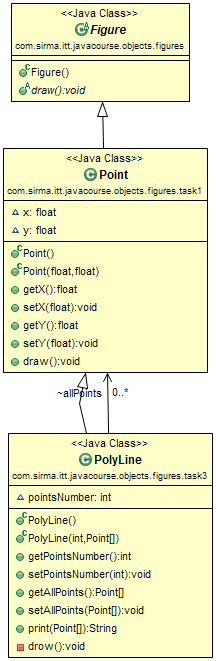
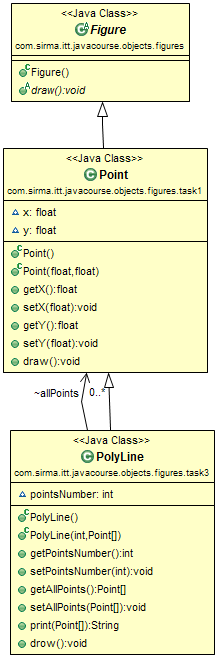
second feedback

Changed region(s): [[0.0278, 0.152, 0.9722, 1.0], [0.0278, 0.0, 0.8889, 0.152]]

diff --git a/Objects In Java/src/main/java/com/sirma/itt/javacourse/objects/figures/task3/PolyLine.java b/Objects In Java/src/main/java/com/sirma/itt/javacourse/objects/figures/task3/PolyLine.java
@@ -32,18 +32,38 @@ public class PolyLine extends Point {
 		this.allPoints = currentpoints;
 	}
 
+	/**
+	 * Getter method for pointsNumber.
+	 *
+	 * @return the pointsNumber
+	 */
 	public int getPointsNumber() {
 		return pointsNumber;
 	}
 
+	/**
+	 * Setter method for pointsNumber.
+	 *
+	 * @param pointsNumber the pointsNumber to set
+	 */
 	public void setPointsNumber(int pointsNumber) {
 		this.pointsNumber = pointsNumber;
 	}
 
+	/**
+	 * Getter method for allPoints.
+	 *
+	 * @return the allPoints
+	 */
 	public Point[] getAllPoints() {
 		return allPoints;
 	}
 
+	/**
+	 * Setter method for allPoints.
+	 *
+	 * @param allPoints the allPoints to set
+	 */
 	public void setAllPoints(Point[] allPoints) {
 		this.allPoints = allPoints;
 	}
@@ -64,9 +84,9 @@ public class PolyLine extends Point {
 	}
 
 	/**
-	 * Method that drow polyLine.
+	 * Method that draw polyLine.
 	 */
-	private void drow() {
+	public void drow() {
 		System.out.println("Number of all point in fugure is " + pointsNumber);
 		System.out.println("Array ot points is" + print(allPoints));
 
